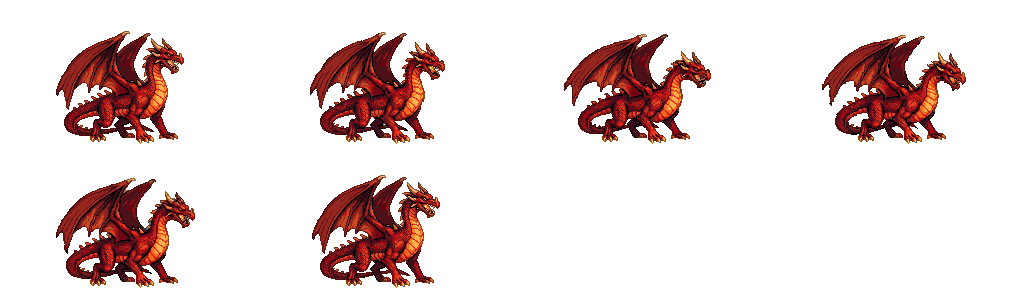
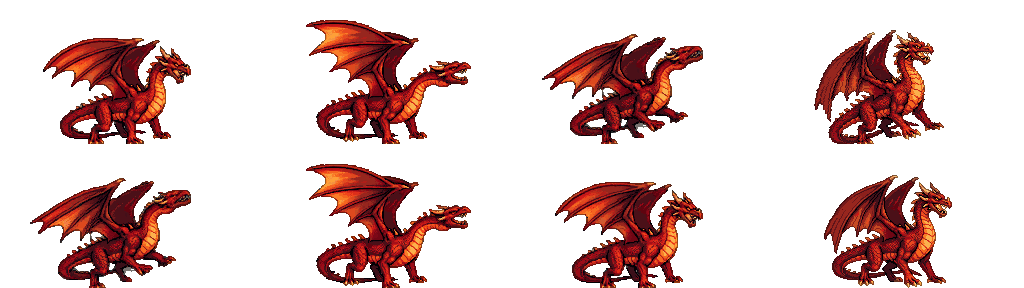
Coups reçus : le Dragon, l'Hydre et le Démon basculent en arrière (image clé)

diff --git a/tools/art/METHODE.md b/tools/art/METHODE.md
@@ -316,6 +316,15 @@ les clés et le dossier `art-candidats/` sont décrits dans `CLAUDE.md` ; l'hist
   recovers back to exactly its starting pose; stays on the same spot, nothing else in the picture ». Sans « to the
   left », le Fantôme tend le bras vers l'avant (l'utilisateur : on dirait qu'il attaque). Une créature de face (le
   Troll) bouge à peine. Une étincelle reste parfois sur une image (Djinn, Arbalétrier) quelle que soit la graine.
+  Les grandes créatures (Dragon, Hydre, Démon) ont résisté à cinq revues : elles bougent, mais pas comme sous un coup
+  (le Dragon penche même en avant quoi qu'on écrive). **Ce qui a marché : une image clé.** La pose de départ tournée de
+  8 à 12° en arrière autour de ses pieds (l'idée de l'utilisateur : « que la créature bascule »), donnée en dernière image
+  (`last_frame`) ; PixelLab anime de l'une à l'autre en 4 images (« rocks back from a heavy blow: the whole body tilts
+  backward as one, pivoting on its feet… ending in the tilted pose »), puis la feuille joue l'aller, le retour et la pose
+  de départ (8 images). Des morceaux détachés (une tête de trop pour l'Hydre) : les retirer ; un éclair blanc : l'effacer.
+  Le jeu ajoute un recul de 9 pixels de l'écran (`Recoil`) : la page de revue le montre aussi. Retirer des effets à la
+  main : par rectangles, n'effacer que les pixels clairs (ou jaune vif sur des cheveux blonds) ; sur le corps, leur donner
+  la couleur du corps voisine plutôt que de faire un trou ; ou reprendre une image voisine.
 - Écartés : « Bitforge » (`creer`) à cette taille, le style « classic » (trop dessin animé), le style « retro » de Retro
   Diffusion pour les créatures (images carrées, toutes de face et de la même taille), repeindre une seule zone
   (`repeindre` demande un abonnement payant : `retoucher` sur toute l'image à la place).

diff --git a/HISTORIQUE.md b/HISTORIQUE.md
@@ -2689,7 +2689,9 @@ créature rare), le nombre par carte et la difficulté selon la zone ; les créa
   d'abord sur 8 créatures, revu par l'utilisateur (gardés : le Paysan, le Roi de cristal, puis le Fantôme, le Troll et le
   Limon refaits « vers la gauche » ; l'Archer, le Loup, le Troll et le Griffon seront refaits entièrement), puis les 48
   autres (l'Ogre, l'Oiseau-tonnerre, le Djinn et l'Arbalétrier refaits pour des étincelles) ; environ 1,4 $ en tout.
-  Méthode dans `tools/art/METHODE.md` ; à revoir avec l'utilisateur (`art-candidats/en-cours/coups.html`).
+  Méthode dans `tools/art/METHODE.md`. Revus avec l'utilisateur en six tours (2026-11-17) : gardés ou refaits avec ses
+  remarques (plus de mouvement, en arrière, sans effets ; effets retirés à la main sur le Zombie, l'Oiseau-tonnerre,
+  l'Archer elfe, le Tourmenteur, le Tyran) ; le Dragon, l'Hydre et le Démon par une image clé penchée en arrière.
   ✅ Les options du combat (bouton Options, touche O) : la vitesse des projectiles (lente, normale, rapide), gardée
   d'une partie à l'autre dans `user://reglages.cfg` (`Settings`).
 - ✅ **Des cases de 32 pixels d'art** (au lieu de 24 ; décision de l'utilisateur, 2026-11-08) : cases de 64 pixels à

diff --git a/PLAN.md b/PLAN.md
@@ -173,8 +173,8 @@ l'attaque, les champs de l'herbe, du désert et du marais (2026-11-16), les obst
 nuages et des rochers dans les paysages ouverts, les flaques loin des obstacles (2026-11-17).
 ✅ Une **animation de mort** par créature (2026-11-17, branche `animations-mort`, un essai chacune pour commencer :
 choix de l'utilisateur) ; **à revoir avec lui** (page `art-candidats/en-cours/morts.html` : garder ou refaire), peut-être
-en tombant en arrière. ✅ Un **coup reçu** par créature (2026-11-17, même branche) ; 8 revus, **les 48 autres à revoir**
-(`art-candidats/en-cours/coups.html`).
+en tombant en arrière. ✅ Un **coup reçu** par créature (2026-11-17, même branche), revu avec l'utilisateur ; le Dragon, l'Hydre et le
+Démon, refaits par une image clé, à revoir (`art-candidats/en-cours/coups.html`).
 **Reste** : l'**Épéiste et le Cavalier** à refaire (plus petits) ; l'Archer, le Loup, le Troll et le Griffon à refaire
 entièrement (choix de l'utilisateur).
 
